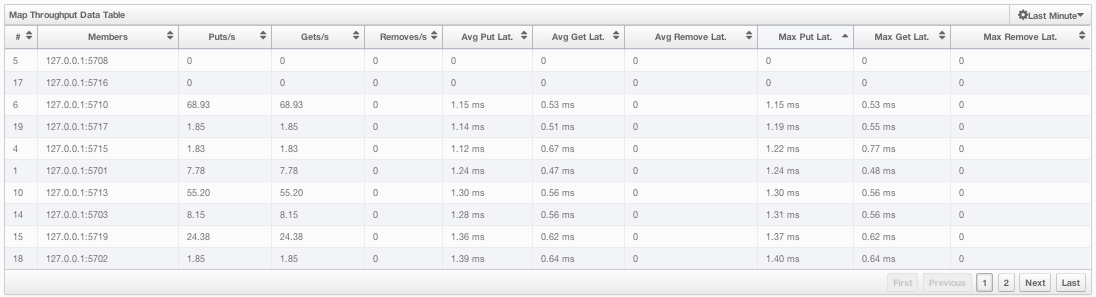
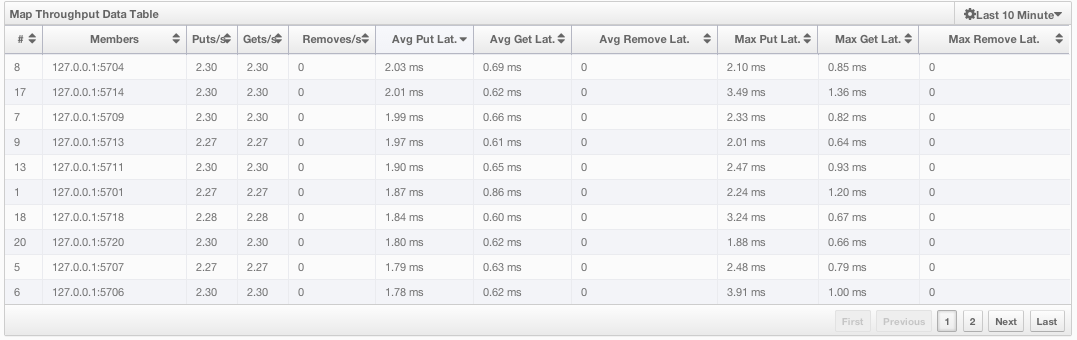
Hosted MC Doc Improvements

diff --git a/hazelcast-documentation/src/hostedmancenter/HostedManagementCenter.md b/hazelcast-documentation/src/hostedmancenter/HostedManagementCenter.md
@@ -9,10 +9,16 @@
 
 Hazelcast Hosted Management Center enables you to monitor and manage your nodes running Hazelcast. In addition to monitoring overall state of your clusters, you can also analyze and browse your data structures in detail, update map configurations and take thread dump from nodes. With its scripting and console module, you can run scripts (JavaScript, Groovy etc.) and commands on your nodes. It is a web based tool and you can deploy it into your internal server and serve your users.
 
+To be able to use Hosted Management Center to monitor your cluster:
+
+1- You need to configure your cluster so it can be connected from this tool.
+
+2- You need to sign up on the tool to create an account.
+
 ---
 
 ## Configuration
-In order to monitor your cluster in Hosted Management Center, `hazelcast.hosted.management.enabled` system property needs to be set as `true` on your cluster. This can be done with one of the ways listed below:
+In order to monitor your cluster in Hosted Management Center, `hazelcast.hosted.management.enabled` system property needs to be set as `true` in your cluster. This can be done with one of the ways listed below:
 
 1- Using JVM command line argument `-Dhazelcast.hosted.management.enabled=true`
 
@@ -28,27 +34,24 @@ or
 ```
 
 
-Also, `security-token` property in the management center configuration should be specified. This token can be grabbed from Hosted Management Center after registration. It can be added to ``as below like the following snippet on your hazelcast.xml configuration file.
+Also, `security-token` property in the management center configuration should be specified. This token can be grabbed from Hosted Management Center after registration (please see next section). It can be added to `hazelcast.xml` configuration file with below line.
 
 ```xml
 <management-center security-token="YOUR_SECURITY_TOKEN" />
 ```
 
-
-Basically, `mancenter`-*version*`.war` application should be deployed into the Java web server and  Hazelcast nodes should be configured to communicate with this application, i.e. Hazelcast nodes should know the URL of `mancenter` application before they are started.
-
-
 ---
 
 ## Sign Up & Login
-After the cluster has started, go to `http://localhost:8080/mancenter`-*version* using any web browser. Below page will load.
+Go to [http://manage.hazelcast.com/3.2/](http://manage.hazelcast.com/3.2/) using any web browser. Below page will load.
 
 ![](images/1Login.jpg)
 
-Initial login username/password is `admin/admin`.
+Click on **Sign Up** link and fill the form that will appear and ask your name, company, e-mail and password. Once you click on the **Sign Up** button on this form, you will be directed to the page where cluster configuration is explained and security token is provided, as shown below.
 
-???
-???
+![](images/RegistrationWindow.jpg)
+
+Add this token (value of the *security-token*) to your `hazelcast.xml` configuration file as explained in [Configuration](#configuration) section above. Click on **Back to Dashboard** button and login page loads.
 
 Once the credentials are entered and **Login** key is pressed, the tool will ask from the user to choose a cluster, as shown below.
 
@@ -56,11 +59,7 @@ Once the credentials are entered and **Login** key is pressed, the tool will ask
 
 Select the cluster and hit **Connect** button.
 
-If your cluster is not configured for the Hosted Management Center, the tool shows a warning as shown below.
-
-![](images/Warning.jpg)
-
-You can click on the link written on this warning and see the explanation on how to configure the cluster.
+If the tool shows a warning as shown below, check your cluster's configuration and be sure you performed the steps explained in [Configuration](#configuration) section above.
 
 
 ---
@@ -158,7 +157,7 @@ This part is actually the breakdown of the blue area shown in **Memory Distribut
 In the above example, you can see 49.55% of the total map memory is used by **map1** and 49.55% is used by **map2**.
 
 ####Health Check
-This part is useful to check how the cluster in general behaves. It lists the nodes (cluster members), locks and partition mismatches along with the information related to migrations and node interconnections. To see these, just click on the **Check Cluster Health** button. A sample is shown below.
+This part is useful to check how the cluster in general behaves. It lists the nodes (cluster members), locks and partition mismatches along with the information related to migrations and node interconnections. To see these, just click on **Check Cluster Health** button. A sample is shown below.
 
 ![](images/Home-HealthCheckbuttonpressed.jpg)
 
@@ -197,19 +196,19 @@ Map Browser is a tool used to retrieve properties of the entries stored in the s
 
 ![](images/Map-MapBrowser.jpg)
 
-Once the key and key's type is specified on top of the tool and **Browse** button is clicked on, key's properties along with its value is listed.
+Once the key and key's type is specified and **Browse** button is clicked, key's properties along with its value is listed.
 
 ### Map Config
 By using Map Config tool, you can set selected map's attributes like the backup count, TTL, and eviction policy. It can be opened by clicking on the **Map Config** button, located at top right of the window. Once opened, the tool appears as a dialog, as shown below.
 
 ![](images/Map-MapConfig.jpg)
 
-Once the desired attributes are changed, click on the **Update** button to save changes.
+Change any attribute as required and click **Update** button to save changes.
 
 
 ### Map Monitoring
 
-Besides Map Browser and Map Config tools, this page has many  monitoring options explained below. All of these perform  real-time monitoring. 
+Besides Map Browser and Map Config tools, this page has many  monitoring options explained below. All of these perform real-time monitoring. 
 
 On top of the page, there are small charts to monitor the size, throughput, memory usage, backup size, etc. of the selected map in real-time. All charts' X-axis shows the current system time. Other small monitoring charts can be selected using ![](images/ChangeWindowIcon.jpg) button placed at top right of each chart. When it is clicked, the whole list of monitoring options are listed, as shown below.
 
@@ -226,11 +225,21 @@ When you click on a desired monitoring, the chart is loaded with the selected op
 -	**Puts/s, Gets/s, Removes/s**: These three charts monitor the put, get and remove operations (per second) performed on the selected map.
 
 
-Under these charts, there are **Map Memory** and **Map Throughput** data tables.
+Under these charts, there are **Map Memory** and **Map Throughput** data tables. Map Memory data table provides memory metrics distributed over nodes, as shown below.
 
 ![](images/Map-MemoryDataTable.jpg)
 
-gives the memory metrics distributed over members. gives information about the operations performed on instance (get, put, remove) 
+From left to right, this table lists the IP address and port, entry counts, memory used by entries, backup entry counts, memory used by backup entries, events, hits, locks and dirty entries (in the cases where *MapStore* is enabled, these are the entries that are put to/removed from the map but not written to/removed from a database yet) of each node in the map. You can navigate through the pages using the buttons placed at the bottom right of the table (**First, Previous, Next, Last**). The order of the listings in each column can be ascended or descended by clicking on column headings.
+
+Map Throughput data table provides information about the operations (get, put, remove) performed on each node in the map, as shown below.
+
+![](images/Map-MapThroughputDataTable.jpg)
+
+From left to right, this table lists the IP address and port of each node, put, get and remove operations on each node, average put, get, remove latencies and maximum put, get, remove latencies on each node. 
+
+You can select the period in the combo box placed at top right corner of the window, for which the table data will be shown. Available values are **Since Beginning**, **Last Minute**, **Last 10 Minutes** and **Last 1 Hour**. 
+
+You can navigate through the pages using the buttons placed at the bottom right of the table (**First, Previous, Next, Last**). The order of the listings in each column can be ascended or descended by clicking on column headings.
 
 
 ---
